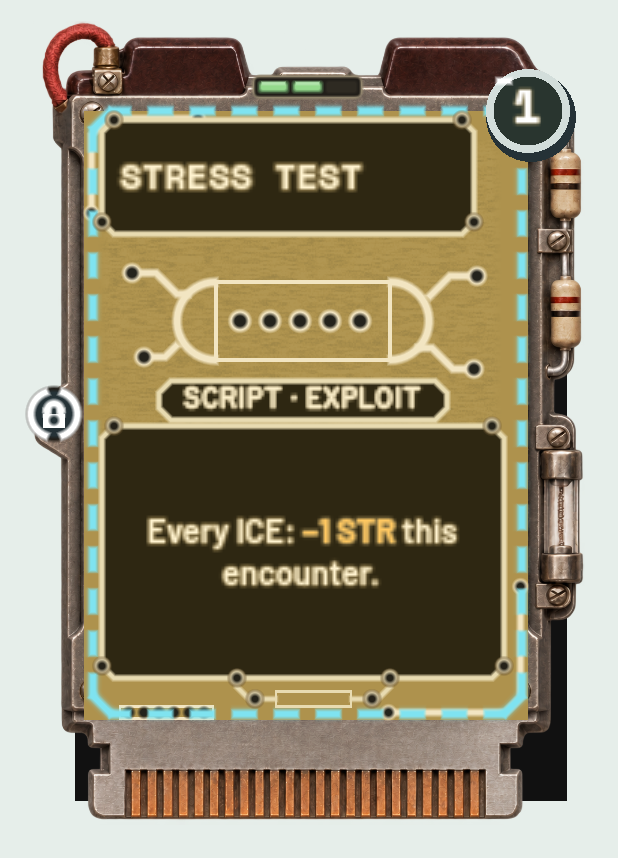
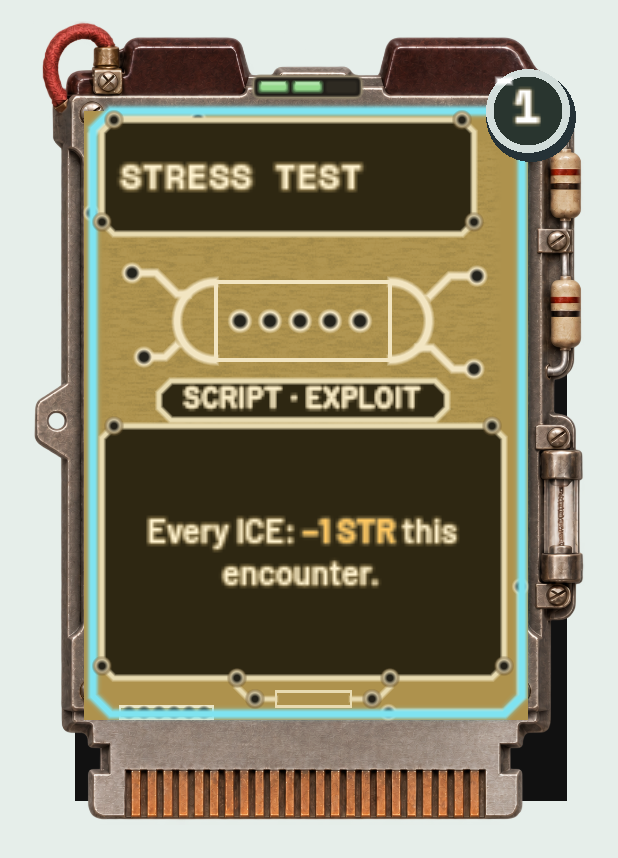
CARDS-002: single cache state, cyan edge glow only (review branch only)
Designer direction: no padlock; cyan; a card is cached or not. Removed
the ear padlock and the dashed temporary style; one solid cyan edge glow
for any cache. Tooltip keeps "(temporary)" for timed caches.
Preview 0 failures at 3x and 1x; rules 361/0, ADP 17/0, SIGNAL/CARBON 671/0.

Claude-Session: https://claude.ai/code/session_019hKEHwHgBfGqbFMUM3xZXY

diff --git a/docs/visual/fixtures/cards-002/README.md b/docs/visual/fixtures/cards-002/README.md
@@ -4,7 +4,7 @@
 
 **Status:** Design review, 2026-11-19. The fifth design is an alternate Rustler cartridge treatment. The review source is isolated from the playable build.
 
-![Glow study with the cyan cache edge glow (bottom left: held; bottom middle: temporary)](iterations/PANOPTICON_Mustard_PCB_05_Cache_Edge_Glow.jpg)
+![Current review version: glowing text on dark mask panels; bottom left and middle are cached (one cyan edge glow)](iterations/PANOPTICON_Mustard_PCB_05_Cache_Single_Glow.jpg)
 
 ## Current review version — glow study (2026-11-19, PROPOSED)
 
@@ -17,7 +17,7 @@ The designer found that dark text on bare mustard lacked contrast and asked whet
 - **Type stamp:** Routed Gothic, one centred line (`SCRIPT · EXPLOIT`) at 9 px, falling to 8 px if needed, on a small pill-shaped mask plate. The plate has no plated holes, so nothing touches the letters.
 - **Rules:** Barlow SemiBold, centred in a fixed 134 × 84 mask panel with traces, plated holes and the empty resistor footprint, at 11 px down to a 9 px floor. Numbers and their units are **Barlow Bold in phosphor amber** `#FFC861` (9.7:1 on the mask).
 - **Rarity:** a recessed light in the top exterior of the cartridge with three cells, filled left to right: one for Common, two for Uncommon, three for Rare. The card face omits the written rarity; the hover tooltip still names it.
-- **Cached** is never printed on the card. The board edge glows **icy cyan** `#7FE3F0`, a colour no rarity lamp or text uses. The ring is solid for a card held until played and dashed for a temporary cache. It sits on the board under the BW cost circle, the title and the text panels, so it crosses no text or cost. The padlock on the left ear stays as the shape cue, so cached is never shown by colour alone: solid rim when held, one lit rim segment per remaining turn when temporary. The hover tooltip reads `CACHED` or `CACHED · TEMP (n turns)`.
+- **Cached** is never printed on the card. A cached card's board edge glows **icy cyan** `#7FE3F0` as one solid ring. There is a single state (designer, 2026-11-19): a card cached for one turn looks the same as one held until played, and the turns left are not shown. The ring sits on the board under the BW cost circle, the title and the text panels, so it crosses no text or cost. Its presence, not just its colour, is the cue. The hover tooltip reads `CACHED` or `CACHED (temporary)`.
 
 | Rarity | Light | Example |
 |---|---|---|
@@ -28,7 +28,7 @@ The designer found that dark text on bare mustard lacked contrast and asked whet
 | State | Capture |
 |---|---|
 | Cached until played | [DEEP PROBE, cached](captures/DEEP_PROBE_CACHED.png) |
-| Temporary cache, 2 turns left | [STRESS TEST, cached · temp](captures/STRESS_TEST_CACHED_TEMP.png) |
+| Temporary cache (looks the same as held) | [STRESS TEST, cached · temp](captures/STRESS_TEST_CACHED_TEMP.png) |
 | Longest rules in the pool (SLEDGE, 155 characters) at the 9 px floor | [Stress card](captures/LONGEST_RULES_STRESS.png) |
 
 The captures are at 3× hand size. [`captures/hand-size/`](captures/hand-size/) holds the same six cards rendered at hand size (164 × 244 on the 1600 × 1000 canvas).
@@ -37,7 +37,7 @@ The captures are at 3× hand size. [`captures/hand-size/`](captures/hand-size/) 
 
 | Issue in the first review | Change |
 |---|---|
-| Printed `CACHED` tag landed inside the fixed rules frame | **Designer direction:** cached is an icon on the outside of the card, not text. Padlock on the left ear; the left edge stays visible when hand cards overlap. |
+| Printed `CACHED` tag landed inside the fixed rules frame | **Designer direction:** cached is not text on the card. Final: one cyan edge glow, with no padlock and no separate temporary state. |
 | Long rules would shrink to about 8 px | Stencil art shortened to 40 px and type plus tags merged to one line, so the frame grows from 67 to 84 px. Floor raised to 9 px; every card's rules at AMP 0–3 (444 texts) fit. |
 | Rarity shown by colour alone (amber and green differ by only 1.08:1 in brightness) | Lit-cell count, 1/2/3, alongside the colour. |
 | Numbers lost their emphasis | Barlow Bold for numbers in the dark ink (the old `#F2CD87` highlight would fail contrast on mustard). |
@@ -59,6 +59,7 @@ The captures are at 3× hand size. [`captures/hand-size/`](captures/hand-size/) 
 11. [Review fixes: cache padlock, segmented lights, taller frame, bold numbers](iterations/PANOPTICON_Mustard_PCB_05_Review_Fixes.jpg)
 12. [Glow study: ivory text on dark solder-mask panels, amber numbers](iterations/PANOPTICON_Mustard_PCB_05_Glow_Mask.jpg)
 13. [Cache edge glow: cyan board-edge ring, solid or dashed, with the padlock](iterations/PANOPTICON_Mustard_PCB_05_Cache_Edge_Glow.jpg)
+14. [Single cache state: one solid cyan glow, no padlock](iterations/PANOPTICON_Mustard_PCB_05_Cache_Single_Glow.jpg)
 
 ## Reproduce the latest preview
 
@@ -86,7 +87,7 @@ The capture fixture needs a display. It checks:
 - the fixed frame, the 9 px floor, centring and fit of the rules, and bold numbers;
 - that the type stamp is one line and clear of the frame;
 - that the title, type stamp and rules each sit on the dark mask, in glowing ivory, with every ink at least 4.5:1 on the mask and no plated holes on the type plate;
-- that `CACHED` never appears on the card face; that the padlock and the cyan edge glow appear only on cached cards; that the glow is solid when held and dashed when temporary, stays outside every text panel and draws beneath the BW cost; that the padlock stays off the board and shows the right turn count; and that the tooltip names the state;
+- that `CACHED` never appears on the card face; that the cyan edge glow appears only on cached cards (and no padlock remains), stays outside every text panel and draws beneath the BW cost; and that the tooltip names the state;
 - that every card's rules text at AMP 0–3 fits the frame at 9 px, and every Rustler type stamp fits one line at 8 px.
 
 With the patch applied, the rules, ADP and SIGNAL/CARBON suites still pass (361/0, 17/0, 671/0).

diff --git a/docs/REDLINE_DEVELOPMENT_LOG.md b/docs/REDLINE_DEVELOPMENT_LOG.md
@@ -4,12 +4,6 @@
 
 **LOG-001 (2026-11-16):** entries from 2026-11-08 to 2026-11-14 are in `REDLINE_DEVELOPMENT_LOG_ARCHIVE.md`, unchanged. Keep this file under about 60 KB (HANDOFF, "How we work" 6).
 
-## 2026-11-17 — CARDS-001: glowing text instead of amber blocks (Codex)
-
-**Commit tag:** `cards-001-amber-glow`. Designer requested glowing amber text instead of highlighted backgrounds. Numeric rule text now uses warm amber ink (`#F2CD87`) with a faint translucent amber halo; removed rectangular fills. External BW badges use a dark instrument face and glowing amber numerals. Board textures stay visible.
-
-**Interpretations to confirm:** restrained halo intensity and dark BW instrument face are proposed treatments. No gameplay changes. 625 cartridge UI checks pass; refreshed live-control comparison and card/hand PNGs. PR #12 remains open for review.
-
 ## 2026-11-17 — CARDS-001: distinct board surface textures (Codex)
 
 **Commit tag:** `cards-001-board-textures`. Added subtle stationary procedural material grain behind card printing: pressed phenolic fibres for brown SCRIPT, woven laminate for olive PROGRAM, brushed resin for teal PROTOCOL, mottled Bakelite for oxide-red BLOATWARE. Inset feathered bounds protect chassis and contacts; text/illustrations draw above the texture. Existing palette and amber text glow retained.
@@ -427,3 +421,15 @@ LOG-001 moved the oldest dated entry to the archive unchanged: 2026-11-17 — CA
 **Interpretations to confirm:** cyan as the cache colour; dashed for temporary rather than showing turns left; keeping the padlock alongside the glow.
 
 LOG-001 moved the oldest dated entry to the archive unchanged: 2026-11-17 — CARDS-001: instrument amber accents (Codex).
+
+## 2026-11-19 — CARDS-002 single cache state (Claude)
+
+**Designer direction:** "No need for padlock. Yes cyan. … A card is cached or not. If it's for 1 turn or permanently, the icon shouldn't change."
+
+**Changed (preview patch, `review/cards-002` only):** removed the ear padlock and the dashed variant. A cached card now shows one solid cyan edge glow whatever its duration. The tooltip reads `CACHED`, plus `(temporary)` for a timed cache. The fixture asserts that the glow appears only on cached cards, that no padlock remains, that the glow clears every panel, and that it draws beneath the cost.
+
+**Validation:** preview fixture 0 failures at 3× and 1×; rules 361/0, ADP 17/0, SIGNAL/CARBON 671/0 with the patch applied.
+
+**Interpretations to confirm:** keeping "(temporary)" in the tooltip.
+
+LOG-001 moved the oldest dated entry to the archive unchanged: 2026-11-17 — CARDS-001: glowing text instead of amber blocks (Codex).

diff --git a/docs/HANDOFF.md b/docs/HANDOFF.md
@@ -123,7 +123,7 @@ Per-step results and interpretations: [HALCYON_PLAYTEST3_IMPLEMENTATION.md](HALC
 | ID | Question | Where it came from | Status |
 |---|---|---|---|
 | NAME-002 (PROPOSED) | **Rename VITAE to SPARK?** Designer: VITAE "seems so out of place in this setting"; SPARK "works", to be reviewed later "to see how much it fits before committing it". Why SPARK: the stat is not health but how much of *you* the machine can't have. Every consciousness has a First Signal; the spark is that signal in you, and what the ’Pelago harvests for the synchronization (SIGNAL-001, ARCH-001). Hits dim it; at 0 your spark is taken. Period-true (radio spark gap). Samples: *SPARK 12 / 30*, *PULP 5 · SPARK −5*, NUL/REM "keep your spark low and your head lower." Considered and set aside: NERVE, TICKER, GRIT, PULSE (too close to PULP); runners-up STATIC, SPINE, INK. Optional extra: corporations name the same number in flavour copy only (HALCYON "Comfort Level", IRONWATCH "Wellness Index", LUCIDA "Restfulness"). Scope if approved: about 510 mentions in 21 docs, including LOCKED master entries (Vitae distinction, HUB-002 PATCH UP), and about 80 in code/data; Claude Code renames on screen with a guard test that VITAE never appears; no rule changes. | Designer, 2026-11-18 | WAITING (review later) |
-| CARDS-002 mustard cartridge | Review-only on `review/cards-002`. Latest: glow study (ivory text and amber numbers on dark solder-mask panels) and a cyan cache edge glow (solid when held, dashed when temporary) with the ear padlock; also 1/2/3 rarity cells and an 84 px rules frame with a 9 px floor. **Interpretations to confirm:** mask colour and shapes, halo strength, amber numbers, cyan cache colour, dashed style for temporary, whether to keep the padlock. | [Review archive](visual/fixtures/cards-002/README.md) | **WAITING** for designer review; PROPOSED |
+| CARDS-002 mustard cartridge | Review-only on `review/cards-002`. Latest: glow study (ivory text and amber numbers on dark solder-mask panels) and a single cached state, one solid cyan edge glow with no padlock (designer direction); also 1/2/3 rarity cells and an 84 px rules frame with a 9 px floor. **Interpretations to confirm:** mask colour and shapes, halo strength, amber numbers, "(temporary)" in the tooltip. | [Review archive](visual/fixtures/cards-002/README.md) | **WAITING** for designer review; PROPOSED |
 | ARCH-NAMES-001 names | The nine island names are working copy: the designer will check them against real care homes later. | ARCH §4.0 | WAITING |
 
 ---

diff --git a/docs/REDLINE_MASTER_DESIGN.md b/docs/REDLINE_MASTER_DESIGN.md
@@ -102,6 +102,8 @@ Shared silkscreen `#F2E5C2` and contact holes `#24231C` stay outside names, illu
 
 **CARDS-002 cache edge glow (2026-11-19, review branch only, PROPOSED).** *Designer question:* can cached show along the card's edge, as part of the card glowing in a different colour? *Study:* a cached card's board edge glows icy cyan `#7FE3F0`, solid when held until played and dashed for a temporary cache. The glow draws beneath the BW cost, title and text panels. The ear padlock stays as the non-colour cue.
 
+**CARDS-002 single cache state (2026-11-19, review branch only; designer direction).** Designer: "No need for padlock. Yes cyan… A card is cached or not." A cached card shows one solid icy-cyan `#7FE3F0` edge glow. A temporary cache looks the same as one held until played, and turns left are not shown on the card. *PROPOSED:* the tooltip adds "(temporary)" for a timed cache.
+
 **VISUAL-APPROVALS-002 — Prototype art and working values approved (APPROVED, 2026-11-17).** The designer approved every item below, which had been waiting for review. Designer: "Okay, all those changes that you listed are all approved." Numbers stay tunable presentation values; approval means build from them, not that they can never change. Sources: the 2026-11-17 VIS-001, CHROME-001 and CARDS-001 entries in `REDLINE_DEVELOPMENT_LOG.md`.
 
 - **CHROME-001 (HALCYON encounter), commits 15ae99e–4c2135e:** the generated calm and hostile atrium art and the CAPTCHA/AUTO-RENEW appliance shells; six shared collage illustrations assigned by card role (no per-card art yet); a 20% reveal of the hostile atrium during Cracking; pearl-enamel ICE plaques (pearl `#EDF4F0`, slate `#20343B`, teal `#165B55`) that stay clean in Mask off; the layered silver rim, small Deco fan and placeholder HALCYON wordmark on mascots; mascot carriers at 82% with two ICE and 70% with three; a 2.5-second break confirmation in a header at the top of the screen.

diff --git a/docs/REDLINE_DEVELOPMENT_LOG_ARCHIVE.md b/docs/REDLINE_DEVELOPMENT_LOG_ARCHIVE.md
@@ -1917,3 +1917,9 @@ GENERALIST also has two stalls, counted separately from deaths. Mean end decks G
 **Interpretations to confirm:** exact amber hue is a visual proposal for designer review. PR #12 remains open.
 
 **Validation:** 357 rules checks and 625 cartridge UI checks pass; updated four-type PNG rendered from live Godot controls.
+
+## 2026-11-17 — CARDS-001: glowing text instead of amber blocks (Codex)
+
+**Commit tag:** `cards-001-amber-glow`. Designer requested glowing amber text instead of highlighted backgrounds. Numeric rule text now uses warm amber ink (`#F2CD87`) with a faint translucent amber halo; removed rectangular fills. External BW badges use a dark instrument face and glowing amber numerals. Board textures stay visible.
+
+**Interpretations to confirm:** restrained halo intensity and dark BW instrument face are proposed treatments. No gameplay changes. 625 cartridge UI checks pass; refreshed live-control comparison and card/hand PNGs. PR #12 remains open for review.
